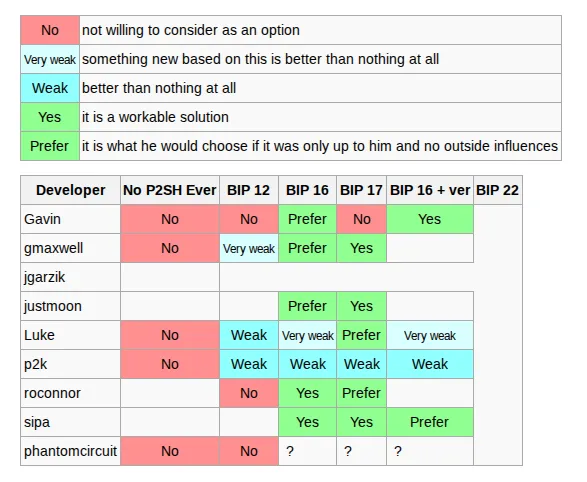
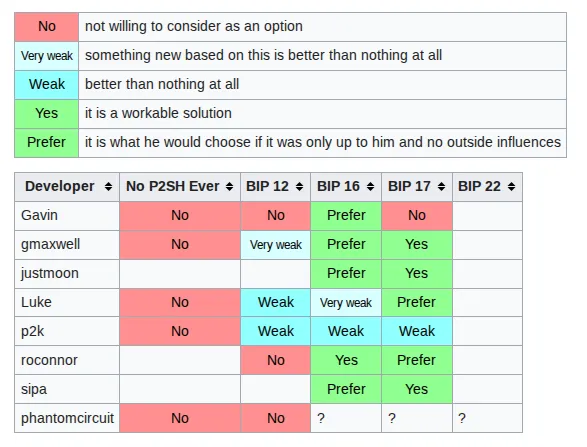
HIS202 ch6: add details, change p2sh dev votes img, add conclusion

diff --git a/courses/his202/fr.md b/courses/his202/fr.md
@@ -976,6 +976,7 @@ Dans le prochain chapitre, nous continuerons à traiter la question du développ
 ## La bataille pour Pay to Script Hash
 
 https://bitcoinmagazine.com/technical/the-battle-for-p2sh-the-untold-story-of-the-first-bitcoin-war
+https://gnusha.org/pi/bitcoindev/4F01C9D8.10107@justmoon.de/ (résumé par justmoon)
 https://web.archive.org/web/20120131212150/http://bitcoinmedia.com/the-truth-behind-bip-16-and-17/
 
 Après le départ de Satoshi Nakamoto, le développement du logiciel a été pris en charge par la communauté, qui a dû se coordonner, sous la supervision de Gavin Andresen. Il est en particulier question d'améliorer la programmabilité de Bitcoin, celle-ci ayant été temporairement restreinte par l'instauration de règles de relai sur le réseau.
@@ -1074,17 +1075,7 @@ Il est ainsi décidé d'étudier les alternatives avant de prendre une quelconqu
 
 ### Pay to Script Hash
 
-Résumé par justmoon : https://gnusha.org/pi/bitcoindev/4F01C9D8.10107@justmoon.de/
-
-Russell O'Connor "Alternative to OP_EVAL" [29/12/2011](https://gnusha.org/pi/bitcoindev/alpine.LRH.2.00.1112290111310.22327@theorem.ca/) : OP\_CODEHASH
-
-Russell O'Connor : docteur en mathématique canadien et chercheur en informatique à l'université Radboud de Nimègue aux Pays-Bas,
-
-Pieter Wuille, [29/12/2011](https://gnusha.org/pi/bitcoindev/20111229190838.GA29609@ulyssis.org/) : OP\_CHECKEDEVAL
-
-Le principe derrière OP_EVAL est de payer une empreinte de script et d'inclure le dit script. D'où sa désignation de *Pay to Script Hash*, ou P2SH, calqué sur le schéma *Pay to Public Key Hash* (P2PKH). Gregory Maxwell, [17-12-2011](https://buildingbitcoin.org/bitcoin-dev/log-2011-12-17.html).
-
-Le 2 janvier 2012, Gavin Andresen [a l'idée](https://buildingbitcoin.org/bitcoin-dev/log-2012-01-02.html) de reprendre le principe d'OP\_EVAL, à l'exception que la machine virtuelle reconnaitrait la forme du script. Amir Taaki commente en écrivant que « l'idée est un hack » mais qu'il « aime bien » . Gavin [intitule](https://gnusha.org/pi/bitcoindev/CABsx9T3gNNmPen=WtCpG8RCChSwpJ73r7WU2Kz_fP31wAQ+jQg@mail.gmail.com/) son idée « pay to script hash », un nom calqué sur le schéma *Pay to Public Key Hash* (P2PKH) qui est une forme standard de script.
+Le principe derrière `OP_EVAL` est de payer une empreinte de script et de fournir le dit script lors du déverrouillage des fonds. Le 2 janvier 2012, Gavin Andresen [a l'idée](https://buildingbitcoin.org/bitcoin-dev/log-2012-01-02.html#l-760) de reprendre ce principe, à l'exception que la machine virtuelle reconnaitrait la forme du script. Amir Taaki commente en écrivant que « l'idée est un hack » mais qu'il « aime bien » . Gavin [intitule](https://gnusha.org/pi/bitcoindev/CABsx9T3gNNmPen=WtCpG8RCChSwpJ73r7WU2Kz_fP31wAQ+jQg@mail.gmail.com/) son idée « pay to script hash », un nom [calqué](https://buildingbitcoin.org/bitcoin-dev/log-2011-12-17.html#l-715) sur le schéma *Pay to Public Key Hash* (P2PKH) qui est une forme standarde de script.
 
 Le lendemain, le 3 janvier à 21 heures UTC, une réunion est [organisée](https://bitcointalk.org/index.php?topic=56376.msg670964#msg670964) sur le canal IRC \#bitcoin-dev par Amir Taaki, pour que les développeurs se mettent d'accord. Une grande majorité est favorable à Pay to Script Hash, [y compris](https://gnusha.org/pi/bitcoindev/alpine.LRH.2.00.1201021134030.21247@theorem.ca/) Russell O'Connor. Gavin [décrira](https://bitcointalk.org/index.php?topic=56969.msg679219#msg679219) la proposition comme « une alternative plus simple, plus sûre mais moins puissante pour créer des adresses bitcoin pour les transactions multisignatures et les futures transactions plus complexes » (original: "a simpler, safer-but-less-powerful alternative for creating bitcoin addresses for multisignature and future more-complex transactions.").
 
@@ -1120,9 +1111,7 @@ Un autre membre du forum, un mineur allemand utilisant le pseudonyme Nachtwind, 
 
 ### Le débat parmi les développeurs
 
-À mesure que la fin du mois de janvier s'approche...
-
-https://bitcointalk.org/index.php?action=profile;u=224;sa=showPosts;start=820
+Ces différentes propositions créent
 
 Amir Taaki, qui [se déclare](https://github.com/bitcoin/bitcoin/issues/729#issuecomment-3325652) « de nature conservatrice sur le plan du protocole, et de nature progressive vis-à-vis des implémentations » (original: "protocol-conservative implementation-liberal by nature"), se montre particulièrement prudent à propos de l'adoption de Pay to Script Hash.
 
@@ -1139,29 +1128,46 @@ Trad. Bitcoin.fr : « Je préférerais que les gens aient leur mot à dire en l
 https://web.archive.org/web/20120131212150/http://bitcoinmedia.com/the-truth-behind-bip-16-and-17/
 
 
-![Avis des développeurs sur les différentes propositions, le 6 février 2012](assets/en/p2sh-votes-feb-2012.webp)
+![Avis des développeurs sur les différentes propositions, le 2 février 2012](assets/en/p2sh-votes-feb-2012.webp)
 
-Avis des développeurs sur les différentes propositions, le 6 février 2012 (source : [Bitcoin.it](https://en.bitcoin.it/w/index.php?title=P2SH_Votes&oldid=23487))
+Avis des développeurs sur les différentes propositions, le 2 février 2012 (source : [Bitcoin.it](https://en.bitcoin.it/w/index.php?title=P2SH_Votes&oldid=23259))
 
-Le BIP 22 est [proposé](https://bitcointalk.org/index.php?topic=62181.msg725161#msg725161) par Mike Caldwell le 1er février 2012.
+Le débat est tranché par Gavin Andresen
 
+Le 1er février 2012, Mike Caldwell remet une pièce dans la machine en [proposant](https://bitcointalk.org/index.php?topic=62181.msg725161#msg725161) un BIP (improprement assigné au numéro 22) qui reprend son idée de modifier le code opération `OP_CHECKSIG`. Gavin lui [demande](https://bitcointalk.org/index.php?topic=62181.msg725876#msg725876) immédiatement d'arrêter, en précisant que Pay to Script Hash « bénéficie d'un soutien massif » et qu'il « sera la solution » (original: "BIP 16 has overwhelming support, it will be the solution"). Il ajoute :
+
+> « Tu proposes un changement qui n'est pas rétrocompatible, ce qui signifierait une scission « dure » de la blockchain. **Tout le monde** s'accorde à dire que c'est une mauvaise idée. La confusion et le potentiel de piratage si une partie significative des utilisateurs de bitcoins se retrouvait sur une chaîne séparée sont considérables ; tu ne tiens pas compte de tout ça dans ta proposition. »
+>
+> original: "You are proposing a non-backwards-compatible change, which would mean a "hard" blockchain split. Everybody agrees that is a bad idea. The confusion and potential for hacks if a significant fraction of bitcoin users were on a separate chain is massive; you gloss over all of that in your proposal."
+
+
+
+Gavin Andresen tranche en faveur du BIP16 :
+
+[3/2](https://bitcointalk.org/index.php?topic=62181.msg729444#msg729444) : "I used my Phone-a-Friend and Ask the Audience, and I'm locking in BIP 16 as my Final Answer (follow the link if you don't get the stale pop culture reference)."
+
+Quelques jours plus tard, Gavin [expliquera](https://bitcointalk.org/index.php?topic=62181.msg729444#msg729444) (en référence à l'émission *Qui veut gagner des millions ?*) :
+
+> « J'ai utilisé l'appel à un ami et l'avis du public ; j'ai choisi le BIP 16 et c'est mon dernier mot. »
+>
+> original: "I used my Phone-a-Friend and Ask the Audience, and I'm locking in BIP 16 as my Final Answer"
 
 ### Le signalement des mineurs
 
-Coopératives de minage : DeepBit, BTC Guild, Slush Pool/Bitcoin.cz Mining
+Un autre problème concerne l'activation de Pay to Script Hash en tant que telle. Pour que la mise à niveau soit rétrocompatible, il faut qu'une majorité du taux de hachage l'applique. Mais, à mesure que la fin du mois de janvier s'approche, les espoirs activer Pay to Script Hash s'amenuisent.
+
+À l'époque, la puissance de calcul se répartit entre une \[dizaine/vingtaine\] de coopératives de minage, dont trois sortent du lot : DeepBit, BTC Guild, Bitcoin.cz Mining (alias Slush Pool). La coopérative dominante, DeepBit, est gérée par un Russe \[?\] utilisant le pseudonyme Tycho. Elle [approchait](https://web.archive.org/web/20110706215910/http://www.bitcoinwatch.com/) des 50 % du taux de hachage en juillet 2011 ; au début de l'année 2012, elle possède autour des 30 % de la puissance de calcul. Les deux autres naviguent autour de 10–15 %.
 
 - [blockchain.info, 19/12](https://web.archive.org/web/20111219124912/http://blockchain.info/pools), 144 blocs : 24 %, 14 %, 2 %
 - [blockchain.info, 20/1](https://web.archive.org/web/20120120152812/http://blockchain.info/pools), 144 blocs : 42 %, 13 %, 4 %
 - [blockorigin.pfoe.be, 18/3](https://web.archive.org/web/20120318030111/http://blockorigin.pfoe.be/), 2 016 blocs : 33,63 %, 11,90 %, 12,05 %
 - [blockchain.info, 7/4](https://web.archive.org/web/20120407204745/http://blockchain.info/pools), 144 blocs : 32 %, 15 %, 11 %
 
-Deepbit, la coopérative dominante, qui [approchait](https://web.archive.org/web/20110706215910/http://www.bitcoinwatch.com/) des 50 % du taux de hachage en juillet 2011,
-
 ![Proportion des blocs minés par les coopératives de minage durant la journée du 19 décembre 2011](assets/en/blockchain-info-mining-pools-20111219.webp)
 
 Proportion des blocs minés par les coopératives de minage durant la journée du 19 décembre 2011 (source : [Blockchain.info](https://web.archive.org/web/20111219124912/http://blockchain.info/pools))
 
-Signalement des mineurs, [25/1](https://web.archive.org/web/20120125091902/http://blockchain.info/P2SH) : 2 % est pour (EclipseMC), 2,8 % est contre (Eligius), 95,2 % ne s'exprime pas
+Le 25 janvier, alors que l'évaluation du signalement commence, quelques petites coopératives [se prononcent en faveur](https://web.archive.org/web/20120125091902/http://blockchain.info/P2SH) de Pay to Script Hash. Eligius, la coopérative de Luke-Jr, vote contre.
 
 Gavin Andresen, [25/1](https://bitcointalk.org/index.php?topic=61125.msg712822#msg712822) : "Right now, it looks like one person/pool (Tycho/deepbit) has enough hashing power to veto any change. I believe Tycho liked, and planned to support, the original OP\_EVAL proposal, but doesn't like/support either BIP 16 or BIP 17 (he does like/support BIP 11, the multisignature-as-standard-transactions part of all this), so unless he changes his mind or there is a mass exodus from his pool short, multisignature bitcoin addresses will have to wait." — Trad Bitcoin.fr « À l'heure actuelle, il semble qu'une seule personne ait suffisamment de pouvoir de hachage pour opposer son veto à tout changement »
 
@@ -1189,9 +1195,7 @@ Maxwell [31/1](https://bitcointalk.org/index.php?topic=61922.msg723476#msg723476
 [30/1](https://bitcointalk.org/index.php?topic=61922.msg722508#msg722508), date repoussée : "To give more time for testing and deployment, there will be a new go/no-go deadline for evaluating BIP 16/17 support. The new deadline for BIP 16 shall be March 1, 2012. If 55+% support the new feature (as described in the BIP), then March 15 shall be the switchover date."
 
 
-Gavin Andresen tranche en faveur du BIP16 :
 
-[3/2](https://bitcointalk.org/index.php?topic=62181.msg729444#msg729444) : I used my Phone-a-Friend and Ask the Audience, and I'm locking in BIP 16 as my Final Answer (follow the link if you don't get the stale pop culture reference).
 
 Version 0.6 Release Candidate 1, [8/2](https://gnusha.org/pi/bitcoindev/CABsx9T3Wst0e1-ya2tjAnXe=RkZZAz06NKjuZbv3zpS5OLmjyw@mail.gmail.com/), [forum](https://bitcointalk.org/index.php?topic=63165.msg738756#msg738756) : "Short multisignature address support is included in this release, as specified in BIP 16. Run with -bip16=0 to turn off support for BIP 16."
 
@@ -1225,7 +1229,11 @@ Deux versions préliminaires supplémentaires (rc5, rc6) sont publiées dans les
 
 ### La première discorde majeure
 
-La bataille pour P2SH a constitué la première discorde majeure de l'histoire de Bitcoin. Elle a résulté d'un développement.
+La bataille pour Pay to Script Hash a constitué la première discorde majeure de l'histoire de Bitcoin. Elle a résulté d'un élargissement du développement, ce qui a fait qu'il y avait assez de techniciens pour se disputer. Gavin Andresen, qui avait une approche beaucoup plus consensuelle que Satoshi, a pourtant fini par trancher en privilégiant le schéma P2SH aux alternatives proposées.
+
+Cette « bataille » a démontré que le développement de Bitcoin n'était pas un long fleuve tranquille, à cause de son caractère ouvert et libre et des enjeux impliqués. Elle présageait ainsi un conflit autrement plus violent, qu'a été la guerre des blocs entre 2015 et 2017. Et elle ouvrait la question plus ardue de la gouvernance de Bitcoin.
+
+De plus, le débat sur l'évolution du protocole n'est pas la seule conséquence du caractère ouvert et libre de Bitcoin. Celui-ci permet aussi de mettre en œuvre des versions plus ou moins différentes de Bitcoin, en reprenant le code ou le concept, qu'on appellerait vite des « cryptomonnaies alternatives ». Ces cryptomonnaies alternatives, qui participent à leur manière à l'essor de Bitcoin, feront l'objet du prochain chapitre.
 
 ## L'apparition des premières cryptomonnaies alternatives
 
